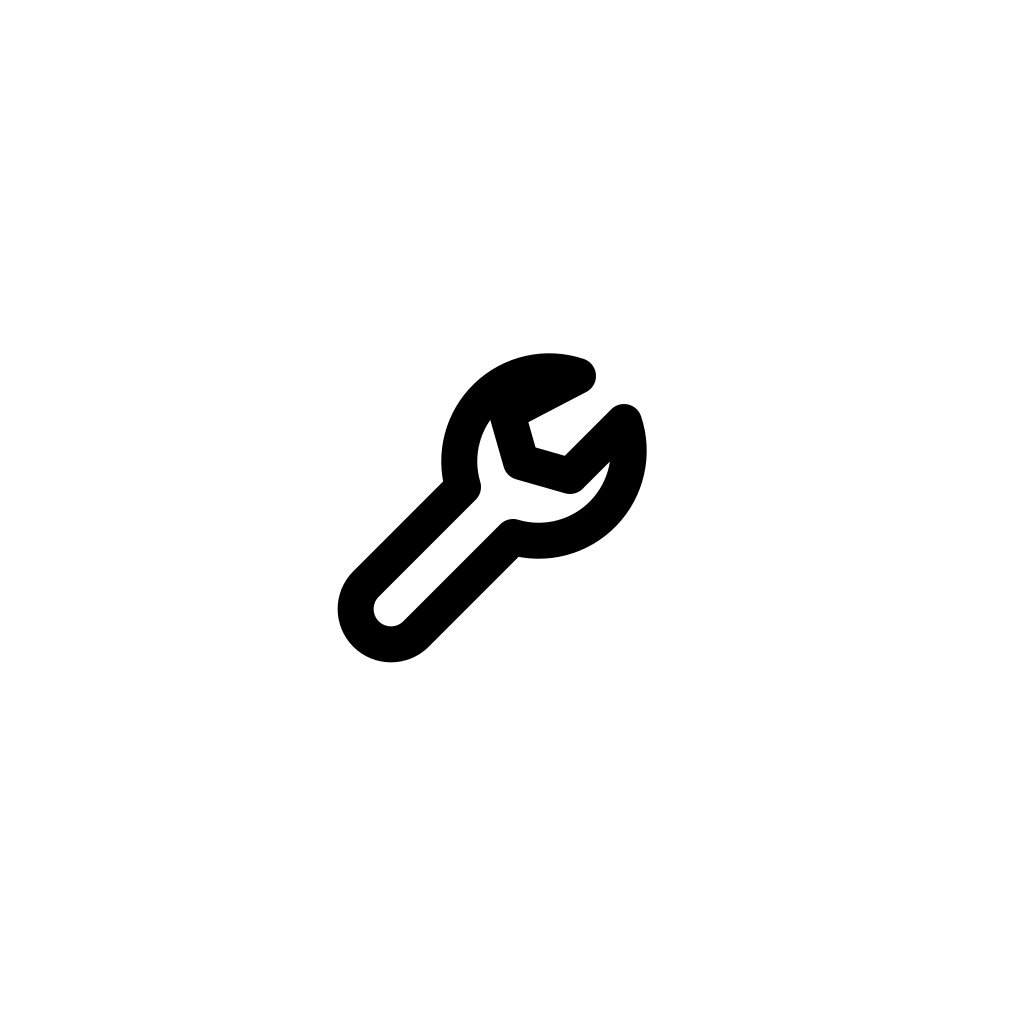
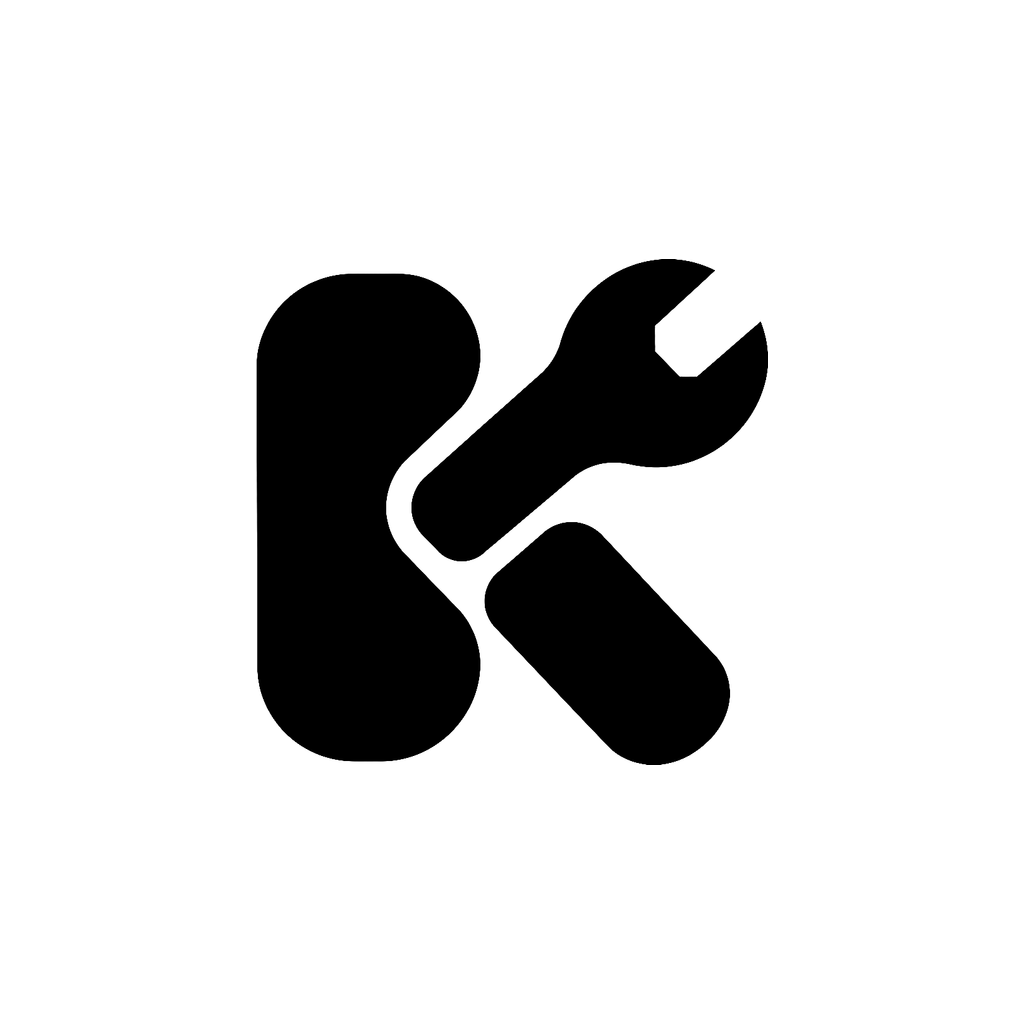
Apply the selected KooChang identity (K + wrench, navy/amber)
Masters in branding/koochang; scripts/make-app-icons.mjs keys the symbol off
its uneven navy and recomposites on #12243A. Mobile: app icon, adaptive and
themed icon, native splash, in-app start screen with the KooChang / คู่ช่าง
lockup, welcome mark. Web: favicon, apple touch icon and default brand mark.

Changed region(s): [[0.25, 0.25, 0.75, 0.75]]

diff --git a/field-service/apps/mobile/App.tsx b/field-service/apps/mobile/App.tsx
@@ -1,5 +1,5 @@
 import { useCallback, useEffect, useRef, useState } from 'react';
-import { Linking, StatusBar, StyleSheet, View } from 'react-native';
+import { Image, Linking, StatusBar, StyleSheet, View } from 'react-native';
 import { SafeAreaProvider, SafeAreaView } from 'react-native-safe-area-context';
 import { useFonts, NotoSansThai_400Regular, NotoSansThai_500Medium, NotoSansThai_600SemiBold, NotoSansThai_700Bold } from '@expo-google-fonts/noto-sans-thai';
 import { getLocales } from 'expo-localization';
@@ -39,8 +39,7 @@ type Route =
   | { screen: 'serviceDone'; result: ServiceResult; back: Route } | { screen: 'maintenance' } | { screen: 'maintenanceItem'; item: MaintenanceItem } | { screen: 'billing' } | { screen: 'invoice'; id: string } | { screen: 'support' }
   | { screen: 'jobs' } | { screen: 'job'; id: string; conflicts?: number } | { screen: 'jobPick' } | { screen: 'jobNew'; customerId: string; locationId: string };
 
-// Keep the KooChang splash until fonts and the saved session are ready, so the first frame is a
-// real screen instead of a blank loader.
+// The native splash is hidden only once the start screen below has drawn, so there is no blank frame.
 void SplashScreen.preventAutoHideAsync().catch(() => {});
 
 const uuid = () => 'xxxxxxxx-xxxx-4xxx-yxxx-xxxxxxxxxxxx'.replace(/[xy]/g, c => {
@@ -51,6 +50,9 @@ export default function App() {
   const [fontsLoaded] = useFonts({ NotoSansThai_400Regular, NotoSansThai_500Medium, NotoSansThai_600SemiBold, NotoSansThai_700Bold });
   const [language, setLanguage] = useState<Language>('th');
   const [route, setRoute] = useState<Route>({ screen: 'boot' });
+  // The start screen stays at least this long so the brand is seen, not flashed.
+  const [shownLongEnough, setShownLongEnough] = useState(false);
+  useEffect(() => { const timer = setTimeout(() => setShownLongEnough(true), 1200); return () => clearTimeout(timer); }, []);
   const [me, setMe] = useState<Me | null>(null);
   const [organizationId, setOrganizationId] = useState<string | null>(null);
   const pendingToken = useRef<string | null>(null);
@@ -264,13 +266,25 @@ export default function App() {
       break;
     }
   }
-  const ready = fontsLoaded && route.screen !== 'boot';
-  useEffect(() => { if (ready) void SplashScreen.hideAsync().catch(() => {}); }, [ready]);
-  if (!fontsLoaded) content = <Loading />;
+  // Native splash (emblem) → this start screen (emblem + KooChang / คู่ช่าง) → the app.
+  if (!fontsLoaded || route.screen === 'boot' || !shownLongEnough) return <BrandStart />;
   return <LanguageContext.Provider value={language}>
     <SafeAreaProvider><SafeAreaView style={styles.root} edges={['top', 'bottom', 'left', 'right']}><StatusBar barStyle="dark-content" backgroundColor={colors.bg} />{content}</SafeAreaView></SafeAreaProvider>
   </LanguageContext.Provider>;
 }
+
+/** Start screen on the brand navy, drawn responsively from the selected lockup (branding/koochang). */
+function BrandStart() {
+  return <View style={startStyles.root} onLayout={() => { void SplashScreen.hideAsync().catch(() => {}); }}>
+    <StatusBar barStyle="light-content" backgroundColor={brandNavy} />
+    <Image source={require('./assets/splash-lockup.png')} style={startStyles.lockup} resizeMode="contain" accessibilityLabel="KooChang คู่ช่าง" />
+  </View>;
+}
+const brandNavy = '#12243A';
+const startStyles = StyleSheet.create({
+  root: { flex: 1, backgroundColor: brandNavy, alignItems: 'center', justifyContent: 'center' },
+  lockup: { width: '58%', maxWidth: 260, aspectRatio: 576 / 605 },
+});
 
 /** A signed-in user creating another shop needs no new code. */
 function CreateShopSignedIn({ onBack, onCreated }: { onBack: () => void; onCreated: (shopName: string, link: JoinLink | null, id: string) => Promise<void> }) {

diff --git a/field-service/apps/admin/app/shop/OwnerApp.tsx b/field-service/apps/admin/app/shop/OwnerApp.tsx
@@ -12,7 +12,7 @@ import { Dashboard, TeamView, AccountView, NotificationsView } from './shop';
 import { CustomersView, CustomerView, EquipmentView } from './customers';
 import { JobsView, JobView, JobForm, ServiceForm } from './jobs';
 import { MaintenanceView, BillingView, InvoiceView, SupportView } from './operations';
-import { Bell, CalendarClock, CircleUserRound, ClipboardList, CreditCard, LayoutDashboard, LifeBuoy, LogOut, Menu, Plus, Store, UserCog, Users, Wrench, X, type LucideIcon } from 'lucide-react';
+import { Bell, CalendarClock, CircleUserRound, ClipboardList, CreditCard, LayoutDashboard, LifeBuoy, LogOut, Menu, Plus, Store, UserCog, Users, X, type LucideIcon } from 'lucide-react';
 
 export type Section = 'home' | 'customers' | 'customer' | 'equipment' | 'jobs' | 'job' | 'jobNew' | 'service' | 'maintenance' | 'team' | 'billing' | 'invoice' | 'support' | 'notifications' | 'account';
 export interface Route { section: Section; id?: string; customerId?: string; locationId?: string }
@@ -76,7 +76,7 @@ export function OwnerApp() {
           {me.memberships.some(m => m.role === 'owner') ? <Button onClick={() => setCreating(false)}>{tr('cancel')}</Button> : null}
           {!me.memberships.some(m => m.role === 'owner') ? <p>{tr('ownerWeb.technicianAccount')}</p> : null}<Button onClick={signOut}>{tr('signOut')}</Button></>)
       : <div className={menu ? 'shell open' : 'shell'}><aside className="side" aria-label={tr('ownerWeb.navigation')}>
-          <div className="brand-row"><BrandMark icon={<Wrench size={17} strokeWidth={2.2} />} />
+          <div className="brand-row"><BrandMark />
             <span className="brand-text"><strong>{tr('appName')}</strong><small>{tr('ownerWeb.workspace')}</small></span>
             <button className="icon-btn close-nav" aria-label={tr('ownerWeb.closeMenu')} onClick={() => setMenu(false)}><X size={18} /></button></div>
           <div className="shop-switch"><span className="shop-avatar" aria-hidden><Store size={16} /></span>
@@ -146,7 +146,7 @@ function Auth({ onDone, language }: { onDone: (org?: string) => Promise<void>; l
     setPhone(normalized); const next = await api.requestOtp(normalized); setChallenge(next); setWait(next.resend_after); setCode('');
   });
   return <div className="signin-page owner-auth"><div className="owner-language">{language}</div><main className="signin owner-card">
-    <div className="signin-brand"><BrandMark large icon={<Wrench size={22} strokeWidth={2.2} />} /><span><strong className="brand-name">{t('appName')}</strong><small>{t('ownerWeb.workspace')}</small></span></div>
+    <div className="signin-brand"><BrandMark large /><span><strong className="brand-name">{t('appName')}</strong><small>{t('ownerWeb.workspace')}</small></span></div>
     <h1>{t('ownerWeb.your_shop_organized')}</h1><p className="muted">{t('ownerWeb.jobs_people_and_customers_in_one_workspace')}</p>
     <form onSubmit={e => { e.preventDefault(); if (!challenge) void requestOtp(); else void a.run(async () => {
       if (!api.signedIn) await api.verifyOtp(challenge.challenge_id, code);

diff --git a/field-service/apps/admin/app/brand.tsx b/field-service/apps/admin/app/brand.tsx
@@ -1,8 +1,8 @@
 'use client';
-import { useEffect, useState, type ReactNode } from 'react';
+import { useEffect, useState } from 'react';
 
 /** Brand logo and favicon set by a super admin in the console (GET /v1/branding is public).
- * Until it loads, or when nothing is set, the built-in icon and public/icon.svg are shown. */
+ * Until it loads, or when nothing is set, the KooChang symbol (public/icon-*.png) is shown. */
 export interface Branding { version: number; logo: boolean; favicon: boolean; favicon_custom: boolean; updated_at: string | null }
 
 const api = `${process.env.NEXT_PUBLIC_API_URL ?? 'http://localhost:4000'}/v1`;
@@ -32,24 +32,24 @@ export function useBranding(): Branding | null {
   return brand;
 }
 
-/** The square mark next to the product name: the uploaded logo, or the given icon. */
-export function BrandMark({ icon, large }: { icon: ReactNode; large?: boolean }) {
+/** The square mark next to the product name: the uploaded logo, or the KooChang symbol. */
+export function BrandMark({ large }: { large?: boolean }) {
   const brand = useBranding();
   const logo = brand?.logo ? brandImageUrl('logo', brand.version) : null;
-  return <span className={`brand-mark${large ? ' lg' : ''}${logo ? ' has-logo' : ''}`} aria-hidden>
-    {logo ? <img src={logo} alt="" /> : icon}</span>;
+  return <span className={`brand-mark${large ? ' lg' : ''} ${logo ? 'has-logo' : 'default-logo'}`} aria-hidden>
+    <img src={logo ?? '/icon-192.png'} alt="" /></span>;
 }
 
 /** Points the browser tab icon at the uploaded favicon (rendered once in the root layout). */
 export function BrandFavicon() {
   const brand = useBranding();
   useEffect(() => {
-    const href = brand?.favicon ? brandImageUrl('favicon', brand.version) : '/icon.svg';
+    const href = brand?.favicon ? brandImageUrl('favicon', brand.version) : '/icon-32.png';
     // Exactly one tab icon: browsers use the last one, so any other icon link would win.
     document.querySelectorAll('link[rel~="icon"]:not([data-brand-icon])').forEach(l => l.remove());
     let link = document.querySelector<HTMLLinkElement>('link[data-brand-icon]');
     if (!link) { link = document.createElement('link'); link.rel = 'icon'; link.dataset.brandIcon = ''; document.head.appendChild(link); }
-    link.type = brand?.favicon ? 'image/png' : 'image/svg+xml';
+    link.type = 'image/png';
     link.href = href;
   }, [brand]);
   return null;

diff --git a/field-service/apps/admin/app/console/Console.tsx b/field-service/apps/admin/app/console/Console.tsx
@@ -13,7 +13,7 @@ import { PrivacyView } from './privacy';
 import { BrandMark } from '../brand';
 import { BrandingView } from './branding';
 import { Activity, CircleUserRound, ClipboardCheck, CreditCard, DatabaseZap, FileSpreadsheet, KeyRound, LayoutDashboard, LifeBuoy, LogOut, Megaphone, Menu,
-  Palette, RotateCcw, Scale, ScrollText, Settings, ShieldCheck, Store, Tags, Users, Wallet, Wrench, X, type LucideIcon } from 'lucide-react';
+  Palette, RotateCcw, Scale, ScrollText, Settings, Store, Tags, Users, Wallet, Wrench, X, type LucideIcon } from 'lucide-react';
 
 type View = { name: 'overview' } | { name: 'payments' } | { name: 'invoice'; id: string } | { name: 'refunds' } | { name: 'reconcile' } | { name: 'shops' } | { name: 'shop'; id: string }
   | { name: 'support' } | { name: 'ticket'; id: string } | { name: 'access' } | { name: 'audit' } | { name: 'system' } | { name: 'data' } | {name:'paymentSettings'} | {name:'settings'} | {name:'branding'} | {name:'account'} | {name:'staff'|'catalog'|'approvals'|'policy'|'communications'|'operations'};
@@ -146,7 +146,7 @@ function Shell({ me, view, items, onNavigate, onSignOut, children }: { me: Me; v
   return <div className={open ? 'shell open' : 'shell'}>
     <aside className="side" aria-label={t('consoleTitle')}>
       <div className="brand-row">
-        <BrandMark icon={<ShieldCheck size={18} strokeWidth={2.2} />} />
+        <BrandMark />
         <span className="brand-text"><strong>{t('consoleTitle')}</strong><small>KooChang</small></span>
         <button className="icon-btn close-nav" aria-label={t('cancel')} onClick={() => setOpen(false)}><X size={18} /></button>
       </div>
@@ -201,7 +201,7 @@ function SignIn({ onSignedIn }: { onSignedIn: (me: Me) => void }) {
     } finally { setBusy(false); }
   }
   return <div className="signin-page"><form className="signin" onSubmit={submit}>
-    <div className="signin-brand"><BrandMark large icon={<ShieldCheck size={22} strokeWidth={2.2} />} />
+    <div className="signin-brand"><BrandMark large />
       <span><h1>{t('consoleTitle')}</h1><small>KooChang</small></span></div>
     {step === 'password' ? <>
       <h2>{t('signIn')}</h2>

diff --git a/field-service/apps/admin/app/join/[token]/page.tsx b/field-service/apps/admin/app/join/[token]/page.tsx
@@ -3,7 +3,6 @@ import { useEffect, useState } from 'react';
 import { useParams } from 'next/navigation';
 import { Language, normalizeLanguage } from '@field-service/core';
 import { translate } from '@field-service/i18n';
-import { Wrench } from 'lucide-react';
 import { BrandMark } from '../../brand';
 
 type Preview = { state: 'active' | 'closed' | 'invalid'; organization_name: string | null };
@@ -26,7 +25,7 @@ export default function JoinLanding() {
 
   const t = (key: Parameters<typeof translate>[1], params?: Record<string, string>) => translate(language, key, params);
   return <main className="join">
-    <header><span className="brand join-brand"><BrandMark icon={<Wrench size={17} strokeWidth={2.2} />} />{t('appName')}</span>
+    <header><span className="brand join-brand"><BrandMark />{t('appName')}</span>
       <label>{t('language')} <select value={language} onChange={e => changeLanguage(normalizeLanguage(e.target.value))}>
         <option value="th">ไทย</option><option value="en">English</option></select></label></header>
     <section className="join-card" aria-live="polite">

diff --git a/field-service/apps/admin/app/globals.css b/field-service/apps/admin/app/globals.css
@@ -76,6 +76,7 @@ button:focus-visible,select:focus-visible { outline:3px solid #caab36; outline-o
   background:linear-gradient(135deg,#2563eb,#1d4ed8 55%,#1e3a8a); box-shadow:0 4px 10px rgba(29,78,216,.3); }
 .brand-mark.lg { width:44px; height:44px; border-radius:12px; }
 .brand-mark.has-logo { background:transparent; box-shadow:none; }
+.brand-mark.default-logo { background:#12243A; box-shadow:0 4px 10px rgba(18,36,58,.25); overflow:hidden; }
 .brand-grid { display:grid; grid-template-columns:repeat(auto-fit,minmax(260px,1fr)); gap:16px; }
 .brand-preview { display:flex; align-items:center; justify-content:center; height:140px; border:1px dashed var(--c-line); border-radius:12px; background:repeating-conic-gradient(#f1f5f9 0 25%,#fff 0 50%) 0 0/16px 16px; margin:8px 0 12px; }
 .brand-preview img { max-width:80%; max-height:110px; object-fit:contain; }

diff --git a/field-service/apps/admin/app/layout.tsx b/field-service/apps/admin/app/layout.tsx
@@ -7,7 +7,7 @@ import { Inter, Noto_Sans_Thai } from 'next/font/google';
 const inter = Inter({ subsets: ['latin'], variable: '--font-latin', display: 'swap' });
 const thai = Noto_Sans_Thai({ subsets: ['thai'], weight: ['400', '500', '600', '700'], variable: '--font-thai', display: 'swap' });
 
-export const metadata = { title: 'KooChang คู่ช่าง', description: 'Shop workspace and platform administration' };
+export const metadata = { title: 'KooChang คู่ช่าง', description: 'Shop workspace and platform administration', icons: { apple: '/apple-touch-icon.png' } };
 export default function RootLayout({ children }: { children: React.ReactNode }) {
   return <html lang="th" className={`${inter.variable} ${thai.variable}`}><body><BrandFavicon />{children}<Toaster /></body></html>;
 }

diff --git a/field-service/apps/mobile/src/screens/onboarding.tsx b/field-service/apps/mobile/src/screens/onboarding.tsx
@@ -47,7 +47,7 @@ export function Welcome({ language, onLanguage, onCreate, onSignIn, onJoin }: {
   </>}>
     <View style={styles.topRow}>
       <View style={styles.brandRow}>{logo ? <Image source={{ uri: logo }} style={styles.logoImage} accessibilityIgnoresInvertColors />
-        : <View style={styles.logo}><Icon name="construct" size={20} color={colors.onPrimary} /></View>}
+        : <Image source={require('../../assets/icon.png')} style={styles.logoImage} accessibilityIgnoresInvertColors />}
         <Text style={styles.brand}>{t('appName')}</Text></View>
       <LanguageSwitch language={language} onChange={onLanguage} />
     </View>

diff --git a/field-service/apps/admin/app/console/branding.tsx b/field-service/apps/admin/app/console/branding.tsx
@@ -37,7 +37,7 @@ export function BrandingView() {
       <h2>{t(kind === 'logo' ? 'brandLogo' : 'brandFavicon')}</h2>
       <div className={`brand-preview ${kind}`}>
         {set && brand ? <img src={brandImageUrl(kind, brand.version)} alt={t(kind === 'logo' ? 'brandLogo' : 'brandFavicon')} />
-          : <img src="/icon.svg" alt={t('brandDefault')} />}
+          : <img src="/icon-192.png" alt={t('brandDefault')} />}
       </div>
       {status ? <p className="muted">{status}</p> : null}
       <p className="muted">{t(kind === 'logo' ? 'brandLogoHint' : 'brandFaviconHint')}</p>

diff --git a/field-service/docs/PROGRESS_LOG.md b/field-service/docs/PROGRESS_LOG.md
@@ -104,6 +104,17 @@
 
 ## บันทึกรายวัน
 
+### 2026-10-05 — ใช้อัตลักษณ์ที่เลือก: โลโก้ K + ประแจ (navy #12243A / amber #F5A623)
+
+- ผู้ใช้ออกแบบและเลือกชุด `output/branding/koochang-selected` (โลโก้แนวนอน, ไอคอนแอป, ภาพเปิดแอป) → คัดลอกต้นฉบับไว้ใน `branding/koochang/` (อยู่ใน git)
+- ทำอะไร: เขียน `scripts/make-app-icons.mjs` ใหม่ให้สร้างทุกไฟล์จากต้นฉบับ
+  - ต้นฉบับเป็นภาพ raster ที่สี navy แกว่ง (#0e243f–#0f2642) จึงตัดพื้นหลังด้วย soft colour key แล้ววางบน navy เดียว #12243A ขอบไม่แตก
+  - มือถือ: icon 1024 (พื้น navy เต็ม), adaptive icon (พื้นสี #12243A + สัญลักษณ์ในวงปลอดภัย), monochrome สำหรับ themed icon, splash ระบบ (สัญลักษณ์บน navy), หน้าเริ่มแอปใน JS แสดงสัญลักษณ์ + KooChang + คู่ช่าง บน navy อย่างน้อย 1.2 วินาที (ภาพเปิดแอปของผู้ออกแบบนำมาจัดแบบ responsive ไม่ยืดทั้งภาพ เพราะ Android 12+ แสดงได้เฉพาะไอคอนกลางจอ); หน้าต้อนรับใช้สัญลักษณ์แทนไอคอนประแจ
+  - เว็บ: favicon และ brand mark เริ่มต้นเป็นสัญลักษณ์ K (`public/icon-32/192/512.png`, `apple-touch-icon.png`) แทน `icon.svg` เดิม; โลโก้ที่อัปโหลดจาก console ยังทับได้เหมือนเดิม
+- ยังไม่ทำ: เปลี่ยนสีธีมทั้งระบบจากน้ำเงินเป็น navy/amber (รอผู้ใช้ตัดสินใจ); ไฟล์ vector ต้นฉบับยังไม่มี (README ของผู้ออกแบบระบุว่าต้องมีก่อนขึ้น production)
+- ตรวจแล้ว: ดูภาพตัวอย่างไอคอน/adaptive/lockup/monochrome; typecheck ทุก workspace, next build, expo export android ผ่าน; owner-web + branding tests ผ่าน
+- สถานะ: ⏳ APK รอบหน้า (ผู้ใช้สั่งยังไม่ build)
+
 ### 2026-10-05 — ผู้ใช้เลือกโลโก้ KooChang แบบ B / สี 1 และจัดชุดไฟล์ที่เลือก
 
 - การตัดสินใจ: ใช้สัญลักษณ์ K แบบ B ที่แขนบนเป็นประแจ กับสี 1 กรมท่า `#12243A` / ส้มอำพัน `#F5A623` / ขาวนวล `#F8FAFC`

diff --git a/field-service/branding/koochang/README.md b/field-service/branding/koochang/README.md
@@ -1,0 +1,17 @@
+# KooChang — selected identity
+
+Selected by the user on 2026-10-05: v3 symbol B with v4 palette 1.
+
+- Name: **KooChang** / **คู่ช่าง**.
+- Symbol: K with an open-end wrench forming the upper diagonal arm.
+- Primary: midnight navy **#12243A**.
+- Accent: amber orange **#F5A623**.
+- Light: off-white **#F8FAFC**.
+
+## Assets
+
+- `logo-horizontal.png`: transparent horizontal website wordmark.
+- `app-icon.png`: square icon with a full-bleed navy background, off-white K stem, amber tool and lower arm. The platform applies its own corner mask.
+- `splash-screen.png`: portrait static startup screen on navy, with matching emblem and wordmark.
+
+The images are generated PNG assets; hex colors above are the production palette targets and not certified sampled raster colors. Preserve image aspect ratios. Use the icon without text at small sizes. The splash image is a composition reference and should be implemented responsively rather than stretched. Final vector masters and platform-size exports are still needed for production integration. No website/mobile asset replacement or deployment in this design task.
